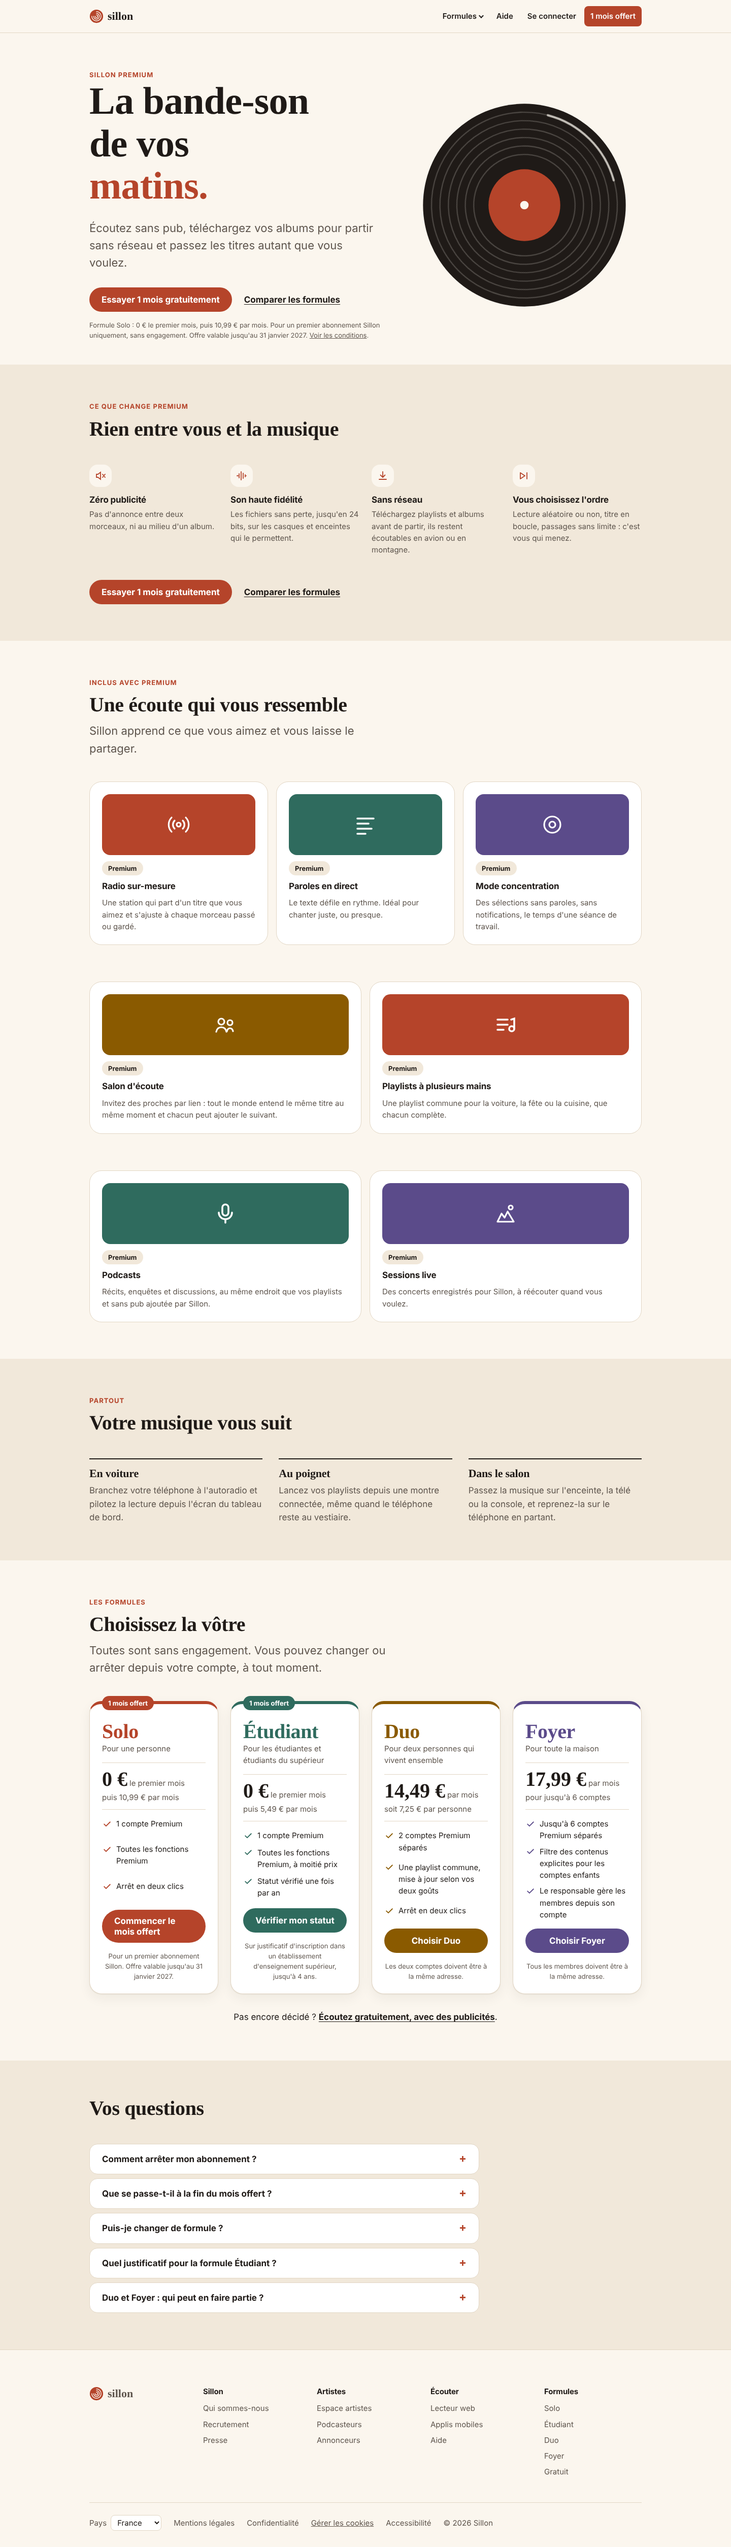
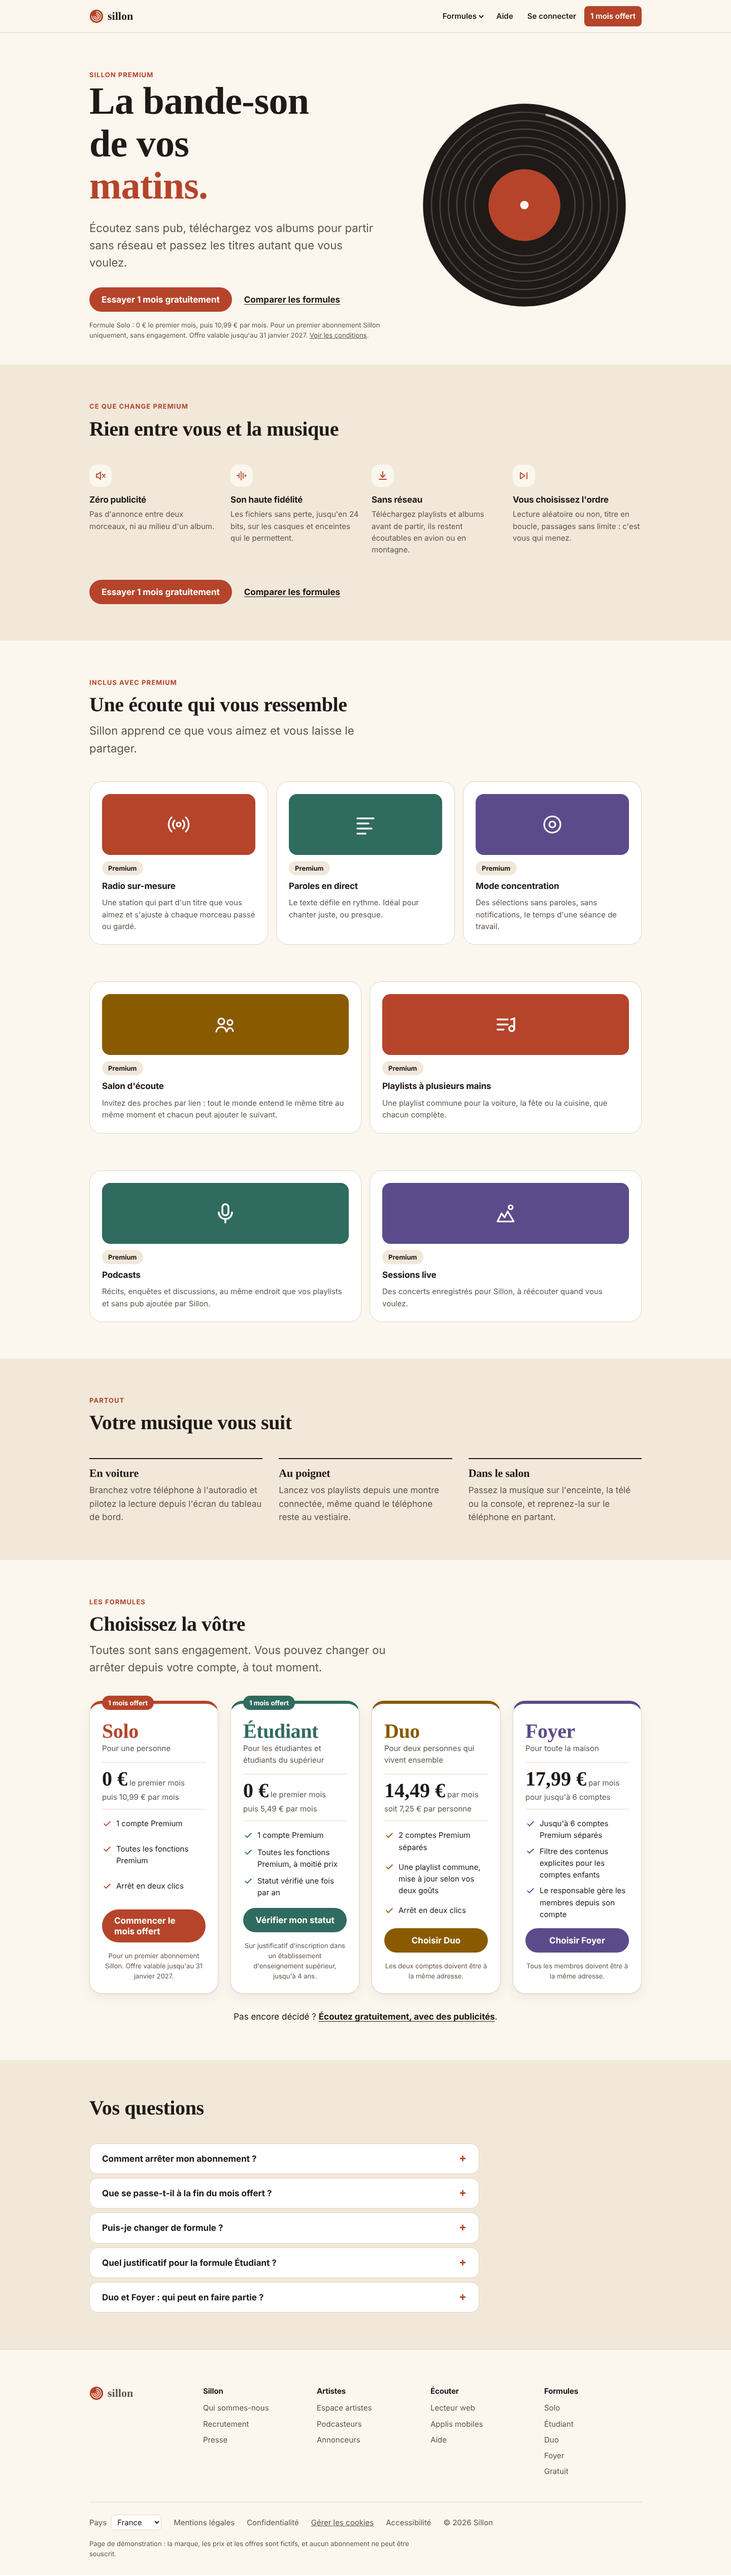
sillon: add demo notice to the footer
States that the brand, prices and offers are fictional and that no subscription can be taken.

Claude-Session: https://claude.ai/code/session_01M3UcntnbzQkjFq7PhqcRXc

diff --git a/sillon/styles.css b/sillon/styles.css
@@ -224,6 +224,7 @@ p { margin: 0; }
 .footer__bottom { display: flex; flex-wrap: wrap; gap: var(--s-3) var(--s-5); align-items: center; margin-top: var(--s-7); padding-top: var(--s-5); border-top: 1px solid var(--line); color: var(--text-muted); }
 .footer__bottom button { background: none; border: 0; padding: 0; color: inherit; font: inherit; text-decoration: underline; cursor: pointer; }
 .country { display: inline-flex; align-items: center; gap: var(--s-2); }
+.demo-note { margin-top: var(--s-4); }
 .country select { font: inherit; color: var(--text); background: var(--surface-2); border: 1px solid var(--line); border-radius: var(--radius-sm); padding: var(--s-1) var(--s-2); }
 
 /* Sticky mobile CTA */

diff --git a/sillon/index.html b/sillon/index.html
@@ -257,6 +257,7 @@
         <a href="#">Accessibilité</a>
         <span>© 2026 Sillon</span>
       </div>
+      <p class="fine demo-note">Page de démonstration : la marque, les prix et les offres sont fictifs, et aucun abonnement ne peut être souscrit.</p>
     </div>
   </footer>
 
